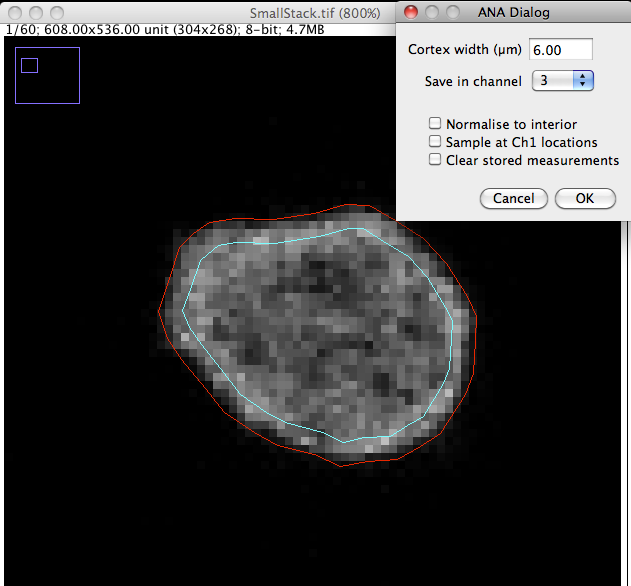
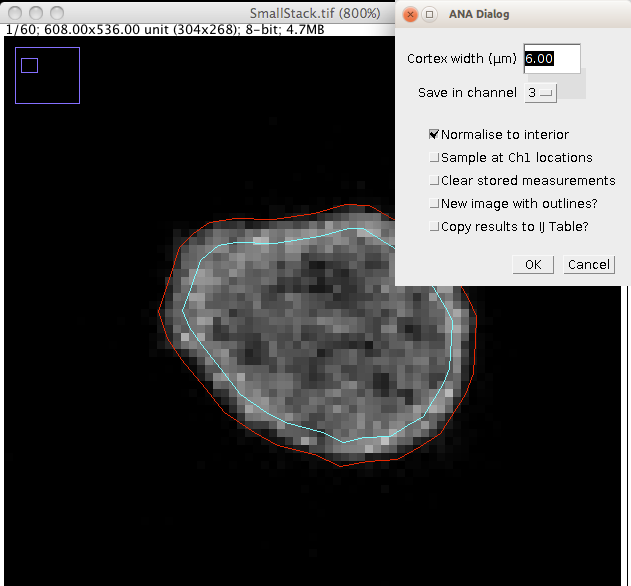
Updated ANA description and UI picture. Fixes #1

Changed region(s): [[0.6022, 0.0, 1.0, 0.4915]]

diff --git a/Docs/QuimP_Guide.tex b/Docs/QuimP_Guide.tex
@@ -479,11 +479,13 @@ same resolution and number of frames as that used for segmentation.
 are displayed on the image.  Changing the cortex width will update the image overlay.
 Choose a channel to record data in from the drop down menu.
 
-ANA provides 3 further options
+ANA provides 5 further options
 \begin{itemize}
 	\item Normalise to interior - Toggle normalisation of intensity sampling to the cells interior (recommended).
 	\item Sample at Ch1 locations - Sample at the same locations as determined for channel 1.
 	\item Clear stored measurements - Removal all fluorescence measurements from QuimP's files.
+	\item New image with outlines? - Produce copy of input image stack with inner and outer outlines in it. Outlines are drawn at overlay\footnote{\url{https://imagej.nih.gov/ij/docs/guide/146-11.html}}. Flatten the image before using it in another software.  
+	\item Copy results to IJ table? - Open ImageJ table filled with fluorescence statistics computed for selected channel (the same are written to\textit{ stQP.csv} file).
 \end{itemize}
 
 Click \textit{OK}.
